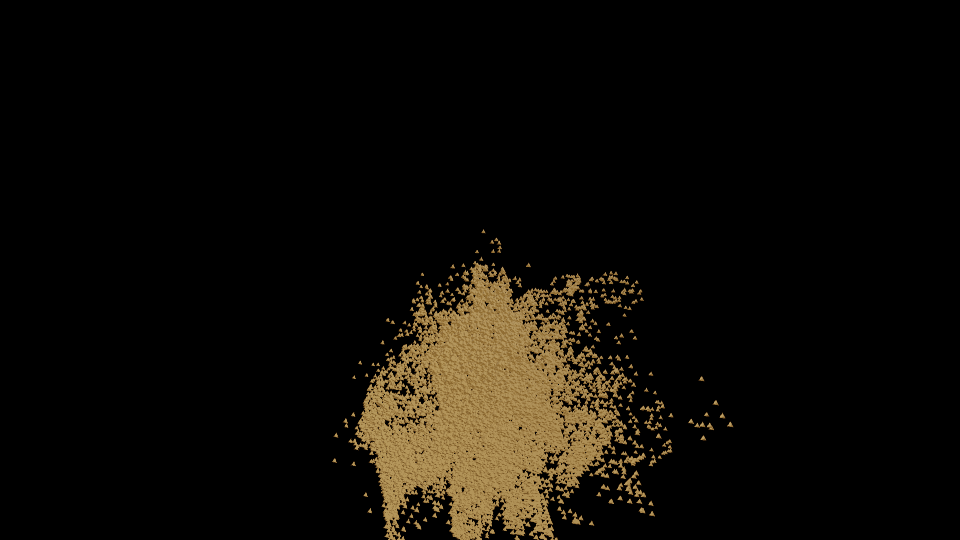
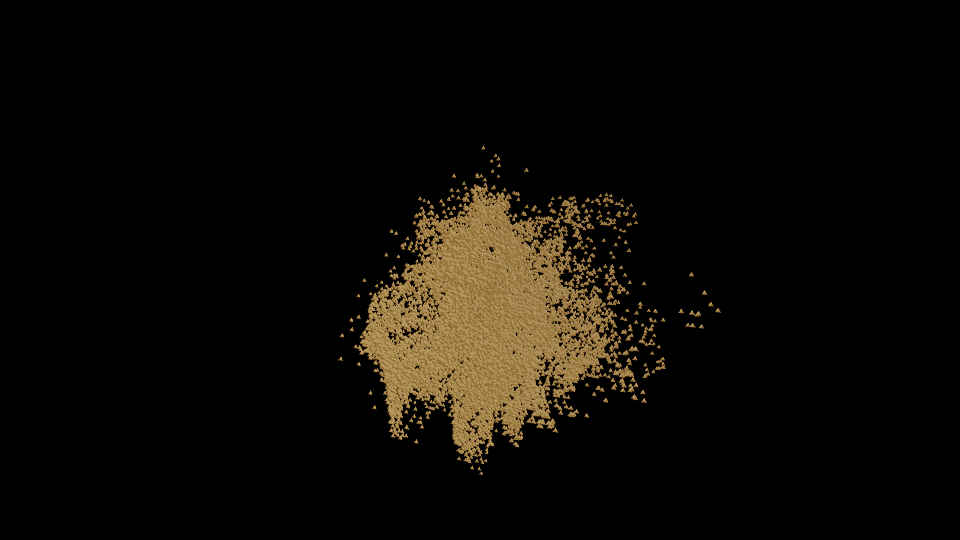
Scene setup programme F1 duplicate and framing (BUG-8gjbd scene setup programme): duplicating a swarm past the force slots is refused whole, and Swarm Cloud is framed on the held cloud.
Duplicate Object copied a swarm's forces without checking the scene's 16 force slots, so five copies saved 18 forces a scene cannot expand. copy_object_modifiers now refuses whole like an insert. Tests through the merged scene transaction: one copy carries the source's changed Strength and one undo removes copy, forces and card rows; three copies give four swarms with twelve forces, each set aimed at its own swarm, one undo removes them all; five copies are refused with the graph unchanged.

Swarm Cloud's camera looks at the cloud's steady centre from further back, so the whole cloud and the Burst spray stay in frame (f1_swarm.png).

Changed region(s): [[0.3438, 0.3259, 0.7188, 1.0], [0.7188, 0.7704, 0.75, 0.8], [0.7188, 0.563, 0.75, 0.5926]]

diff --git a/crates/manifold-app/src/ui_bridge/project/tests/swarm_add.rs b/crates/manifold-app/src/ui_bridge/project/tests/swarm_add.rs
@@ -417,6 +417,110 @@ fn duplicate_swarm_brings_its_own_forces() {
     assert_eq!(effective_def(&project, &layer).scene_modifiers, before.scene_modifiers);
 }
 
+/// Duplicate Object on a swarm, through the scene transaction, gives the copy
+/// its own three forces aimed at it alone with the source's values (a Strength
+/// the performer changed travels), and one undo takes the copy, its forces and
+/// their card rows away.
+#[test]
+fn duplicate_swarm_through_the_transaction_carries_the_sources_values_and_undoes_whole() {
+    let (mut project, layer, render) = scene_layer_project();
+    let mut editing = insert_swarm(&mut project, &layer);
+    let before = effective_def(&project, &layer);
+    let strength_row = |def: &EffectGraphDef, nth: usize| {
+        let attractor = def
+            .scene_modifiers
+            .iter()
+            .filter(|instance| instance.graph.preset_metadata.as_ref().unwrap().id.as_str() == "Attractor")
+            .nth(nth)
+            .expect("an Attractor")
+            .id
+            .clone();
+        def.preset_metadata
+            .as_ref()
+            .unwrap()
+            .bindings
+            .iter()
+            .find(|binding| matches!(&binding.target, BindingTarget::SceneModifier { modifier_id, param_id } if *modifier_id == attractor && param_id == "strength"))
+            .expect("the Attractor's Strength row")
+            .id
+            .clone()
+    };
+    let source_row = strength_row(&before, 0);
+    let index = project.timeline.layers.iter().position(|candidate| candidate.layer_id == layer).unwrap();
+    let param = project.timeline.layers[index].gen_params_mut().unwrap().params.get_mut(&source_row).unwrap();
+    param.value = 33.0;
+    param.base = 33.0;
+
+    duplicate_swarm(&mut project, &mut editing, &layer, render);
+    let def = effective_def(&project, &layer);
+    let groups = swarm_groups(&def);
+    assert_eq!(groups.len(), 2, "a second swarm");
+    assert_eq!(forces_on(&def, groups[1]), SWARM_FORCES, "the copy has its own three forces, aimed at it alone");
+    assert_eq!(forces_on(&def, groups[0]), SWARM_FORCES, "the source keeps its own");
+    assert_eq!(def.scene_modifiers.len(), 2 * SWARM_FORCES.len());
+    let (_, host) = project.timeline.find_layer_by_id(&layer).unwrap();
+    let params = &host.gen_params().unwrap().params;
+    assert_eq!(params.get(&strength_row(&def, 1)).unwrap().value, 33.0, "the copy's Attractor keeps the source's Strength");
+    assert_eq!(params.get(&source_row).unwrap().value, 33.0, "the source keeps it too");
+
+    assert!(editing.undo(&mut project));
+    let undone = effective_def(&project, &layer);
+    assert_eq!(undone.scene_modifiers, before.scene_modifiers, "one undo takes the copy's forces away");
+    assert_eq!(swarm_groups(&undone).len(), 1);
+    assert_eq!(
+        undone.preset_metadata.as_ref().unwrap().bindings.iter().filter(|b| matches!(b.target, BindingTarget::SceneModifier { .. })).count(),
+        before.preset_metadata.as_ref().unwrap().bindings.iter().filter(|b| matches!(b.target, BindingTarget::SceneModifier { .. })).count(),
+        "and their card rows"
+    );
+}
+
+/// Duplicate the first swarm `copies` times in one step; `Err` carries the
+/// refusal, from the build or from the edit.
+fn duplicate_swarm_copies(project: &mut Project, editing: &mut EditingService, layer: &LayerId, render: u32, copies: u32) -> Result<(), String> {
+    let index = swarm_row(&effective_def(project, layer));
+    let ContentCommand::SceneItem(action) =
+        dispatched(project, ProjectAction::SceneSetupDuplicateObject(layer.clone(), render, index, copies))
+    else { panic!("duplicate is a content-owned scene item edit") };
+    let command = crate::scene_item_transfer::build_action(project, action)?;
+    editing.execute(command, project);
+    editing.take_rejection().map_or(Ok(()), Err)
+}
+
+/// Three copies make four swarms and twelve forces, each set aimed at its own
+/// swarm alone, and one undo takes every copy and force away.
+#[test]
+fn duplicate_swarm_three_copies_gives_each_its_own_forces_and_undoes_in_one_step() {
+    let (mut project, layer, render) = scene_layer_project();
+    let mut editing = insert_swarm(&mut project, &layer);
+    let before = effective_def(&project, &layer);
+    duplicate_swarm_copies(&mut project, &mut editing, &layer, render, 3).expect("three copies fit");
+    let def = effective_def(&project, &layer);
+    let groups = swarm_groups(&def);
+    assert_eq!(groups.len(), 4, "the source and three copies");
+    assert_eq!(def.scene_modifiers.len(), 4 * SWARM_FORCES.len(), "twelve forces");
+    for group in &groups {
+        assert_eq!(forces_on(&def, group), SWARM_FORCES, "{:?} has its own set", group.handle);
+    }
+    assert!(editing.undo(&mut project));
+    let undone = effective_def(&project, &layer);
+    assert_eq!(undone.scene_modifiers, before.scene_modifiers, "one undo removes every copy's forces");
+    assert_eq!(swarm_groups(&undone).len(), 1);
+}
+
+/// Five copies would need 18 of the scene's 16 force slots: refused whole, the
+/// graph untouched.
+#[test]
+fn duplicate_swarm_five_copies_is_refused_whole_on_the_force_slot_limit() {
+    let (mut project, layer, render) = scene_layer_project();
+    let mut editing = insert_swarm(&mut project, &layer);
+    let before = effective_def(&project, &layer);
+    let refusal = duplicate_swarm_copies(&mut project, &mut editing, &layer, render, 5).expect_err("five copies do not fit");
+    assert_eq!(effective_def(&project, &layer), before, "the graph is unchanged");
+    assert!(refusal.contains("16 forces"), "the refusal names the limit: {refusal}");
+    assert!(editing.undo(&mut project), "the swarm insert is still the last step");
+    assert!(swarm_groups(&effective_def(&project, &layer)).is_empty(), "undo takes the insert, not a half duplicate");
+}
+
 /// Every card value of `layer` after half a second of playback, with a
 /// mapping on each of `mapped` set to fire on clip launches, and one clip
 /// launched at the start when `launch`.

diff --git a/crates/manifold-core/src/scene_modifier_edit.rs b/crates/manifold-core/src/scene_modifier_edit.rs
@@ -1062,6 +1062,12 @@ pub fn copy_object_modifiers(
             parameter_id_remaps: Vec::new(),
         });
     }
+    // Refused whole, like an insert: a copy never saves forces the scene cannot expand.
+    let needed = owner.scene_modifiers.iter().filter(|item| owned.contains(&item.id) && !crate::scene_modifier_math_view::is_math_view_recipe(&item.graph)).count();
+    let limit = crate::scene_modifier_preset::MAX_STAGE_CARRYING_MODIFIERS;
+    if crate::scene_modifier_preset::force_slots_used(&owner.scene_modifiers) + needed > limit {
+        return Err(SceneModifierEditError::ForceSlotsFull { limit });
+    }
     let duplicated = duplicate_scene_modifiers(owner, &owned)?;
     let before: HashSet<&NodeId> = owner.scene_modifiers.iter().map(|item| &item.id).collect();
     let copies: Vec<SceneModifierInstanceDef> = duplicated

diff --git a/crates/manifold-nodes/src/starter_scenes.rs b/crates/manifold-nodes/src/starter_scenes.rs
@@ -352,6 +352,9 @@ pub fn swarm_cloud() -> Value {
         (force.scene.clone(), force.targets.clone())
     };
     let mut def = serde_json::to_value(swarm).expect("serialise");
+    // Aim at the held cloud's steady centre (about y = -0.75 m, 1.5 m across) so the
+    // whole cloud and the Burst spray stay in frame.
+    set_floats(&mut def, "camera", &[("look_y", -1.6), ("distance", 10.0)]);
     let meta = &mut def["presetMetadata"];
     meta["id"] = json!(SWARM_PRESET);
     meta["displayName"] = json!("Swarm Cloud");
